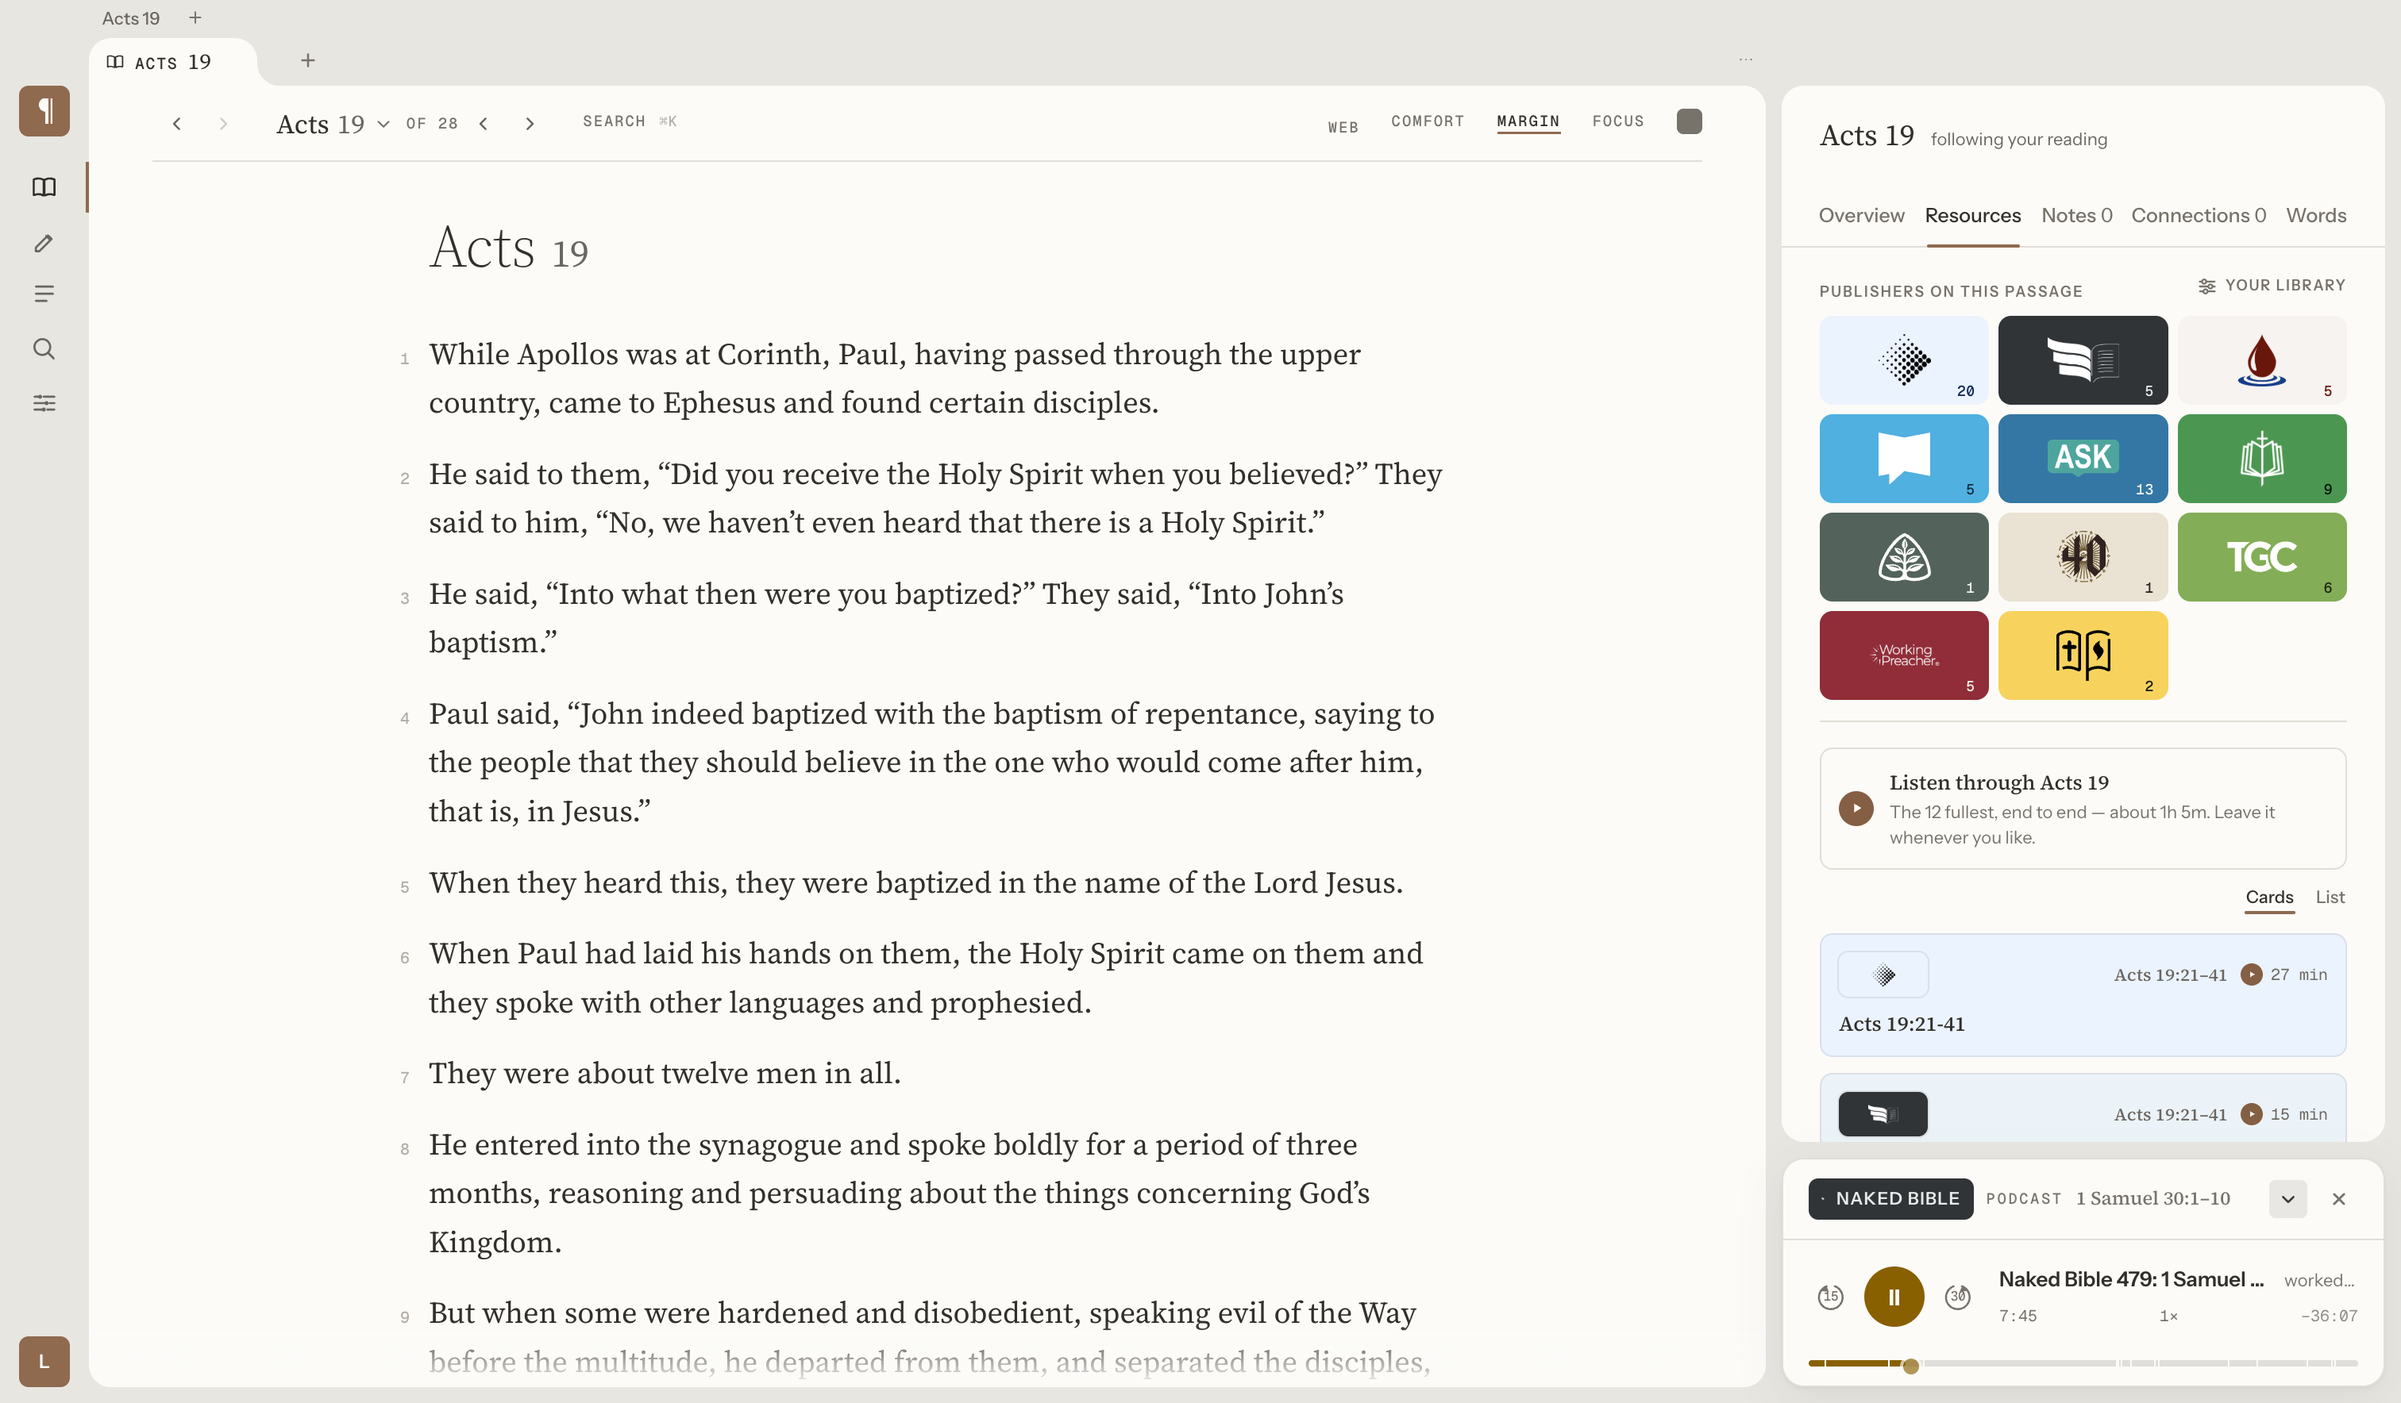
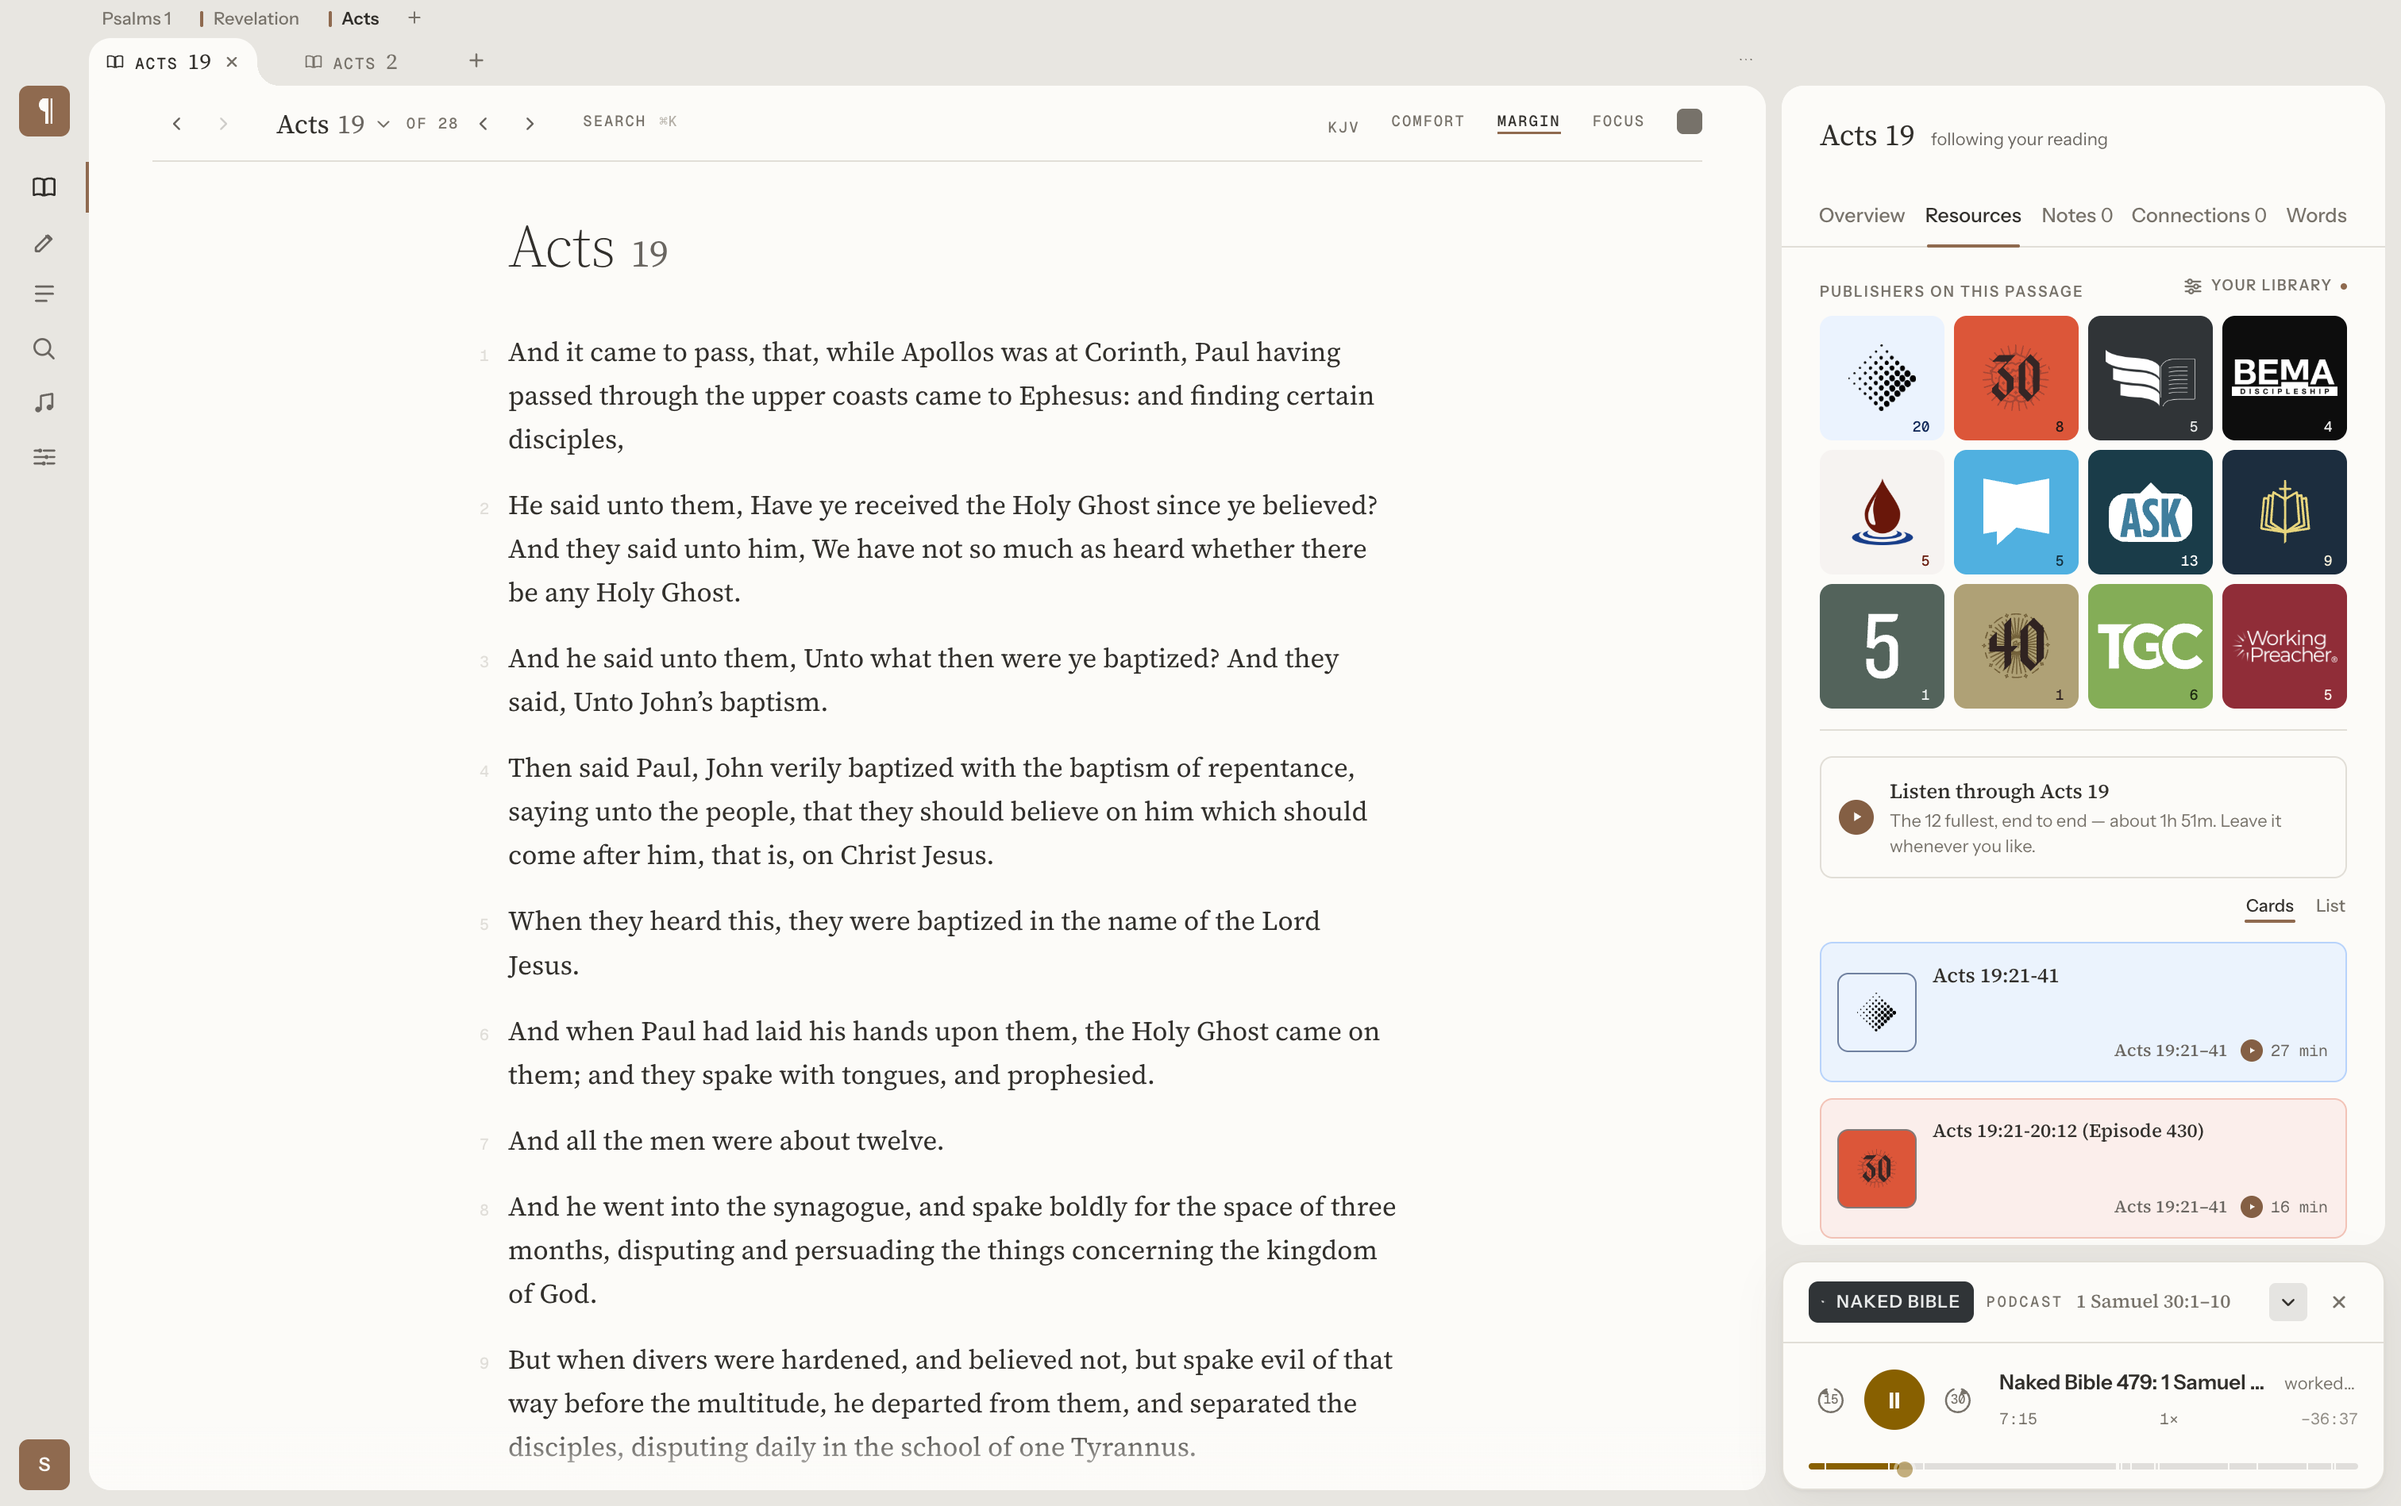
fix: an ink that was right for a colour this publisher no longer wears
A NEAR-BLACK NUMERAL ON A DARK NAVY PLATE, at 1.34:1 — the worst contrast this
app has shipped, on the only text that plate carries. Nobody chose it. It is
what was left when the ground moved and the ink did not.

The ink was a re-pick with a good reason. Spoken Gospel's cream is a REVERSE,
drawn for their white lockup, and on the kelly green they wore until yesterday
it measured 3.24:1. Nothing in their palette cleared the floor there — pale
yellow 3.56, pure white 3.67 — so the shelf declared a near-black of its own in
its own scope, at 5.13 against a ceiling of 5.72, and wrote a paragraph saying
why. Every sentence of that paragraph was true of the green.

On 2026-08-02 the green went. It was 95° off this publisher's own artwork, the
largest disagreement of the twelve, and the surface became #172E40 — the navy
their covers actually are. That commit measured cream on the new ground at
12.33:1 and said so in its own note. It had no reason to know a second colour,
declared four hundred lines away in a different block, existed only to
compensate for the number it had just replaced.

SO THE REPAIR IS A DELETION, and a third colour would have been the wrong
answer. The override existed to solve "their cream does not hold on their
green". There is no green. Removing it returns the numeral to `--resource-ink`
at 12.33:1, and the plate becomes the publisher's own two colours with nothing
of ours in it — which is what these palettes are for and what the shelf should
[…]

diff --git a/src/renderer/styles.css b/src/renderer/styles.css
@@ -23511,28 +23511,43 @@ button.lang-phrase-diagram-node:focus-visible,
 
    Ten of the eleven publishers chose an ink that holds on their own colour.
    Spoken Gospel's cream is a REVERSE — drawn for their white lockup, which is
-   graphics — and on their green it is 3.24:1. Nothing in their palette clears
-   the floor there: their pale yellow pill ink measures 3.56 and pure white
-   3.67. Only a near-black does, and the ceiling on that green is 5.72.
+   graphics — and on the KELLY GREEN they wore then it was 3.24:1. Nothing in
+   that palette cleared the floor: their pale yellow pill ink measured 3.56 and
+   pure white 3.67. Only a near-black did, so `--shelf-tally-ink: #041509` was
+   declared here, in the shelf's own scope rather than in their palette block,
+   and measured 5.13:1 against a ceiling of 5.72.
 
-   So on that one plate the numeral is their green taken down until it clears
-   the floor: 5.13:1 measured in the engine, against a ceiling of 5.72. It is
-   recorded as OURS — a re-pick with a stated reason, the same way
-   --resource-pill-ink for 40 Minutes is — and it is declared here, in the
-   shelf's own scope, rather than in their palette block. The palettes are not
-   this surface's to edit: the shelf is fitting an ink to a job the palette was
-   never asked about.
+   ── AND THEN THE GROUND MOVED OUT FROM UNDER IT · 2026-08-03 ──────────────
+   On 2026-08-02 that green was replaced. It was 95° off their own artwork's
+   hue, the largest disagreement of the twelve, and `--resource-source` became
+   #172E40 — the navy their covers actually are. The near-black went with the
+   green as a matter of fact and stayed as a matter of code: near-black on dark
+   navy is 1.34:1, the worst ratio this app has ever shipped, on the one piece
+   of text that plate carries. The player's own tour caught it and had been
+   failing on it since, which is the only reason it is written here rather than
+   found by a reader.
 
-   Written as a hex rather than as `oklch(from …)` or a `color-mix`, and that
-   is not a style preference: both of those PRESERVE their function in the
-   computed value in this engine, and the contrast probe in
-   scripts/qa-podcast-player reads computed colours by pulling numbers out of
-   the string. An oklch triple parsed as an rgb one is a measurement of
-   nothing, which is how a colour ships unmeasured under a gate that appears
-   to pass. */
-.resource-shelf .trusted-resource-imprint[data-source="spoken-gospel"] {
-  --shelf-tally-ink: #041509;
-}
+   THE REPAIR IS A DELETION, and it is worth being explicit that a third colour
+   would have been the wrong answer. The override existed to solve "their cream
+   does not hold on their green". There is no green. Cream on the navy measures
+   12.33:1 — the palette block above says so in its own note — so removing the
+   re-pick returns the numeral to `--resource-ink` and the plate is the
+   publisher's own two colours with nothing of ours in it.
+
+   A shelf-scoped override is the right instrument when a palette value cannot
+   do a job the palette was never asked about. It is a LIABILITY the moment that
+   value changes, because it is derived from a number it does not name and
+   nothing links the two: the palette block that moved the ground had no reason
+   to know this existed, and this block had no way to notice. If another ground
+   moves, look here first.
+
+   Kept from the original note, because it is still true of whatever lands here
+   next: write such an ink as a hex rather than as `oklch(from …)` or a
+   `color-mix`. Both of those PRESERVE their function in the computed value in
+   this engine, and the contrast probe in scripts/qa-podcast-player reads
+   computed colours by pulling numbers out of the string. An oklch triple parsed
+   as an rgb one is a measurement of nothing, which is how a colour ships
+   unmeasured under a gate that appears to pass. */
 
 /* The library panel opens where a card opens, and its rows carry their own
    border — so a panel border around them was a box drawn around boxes. The
